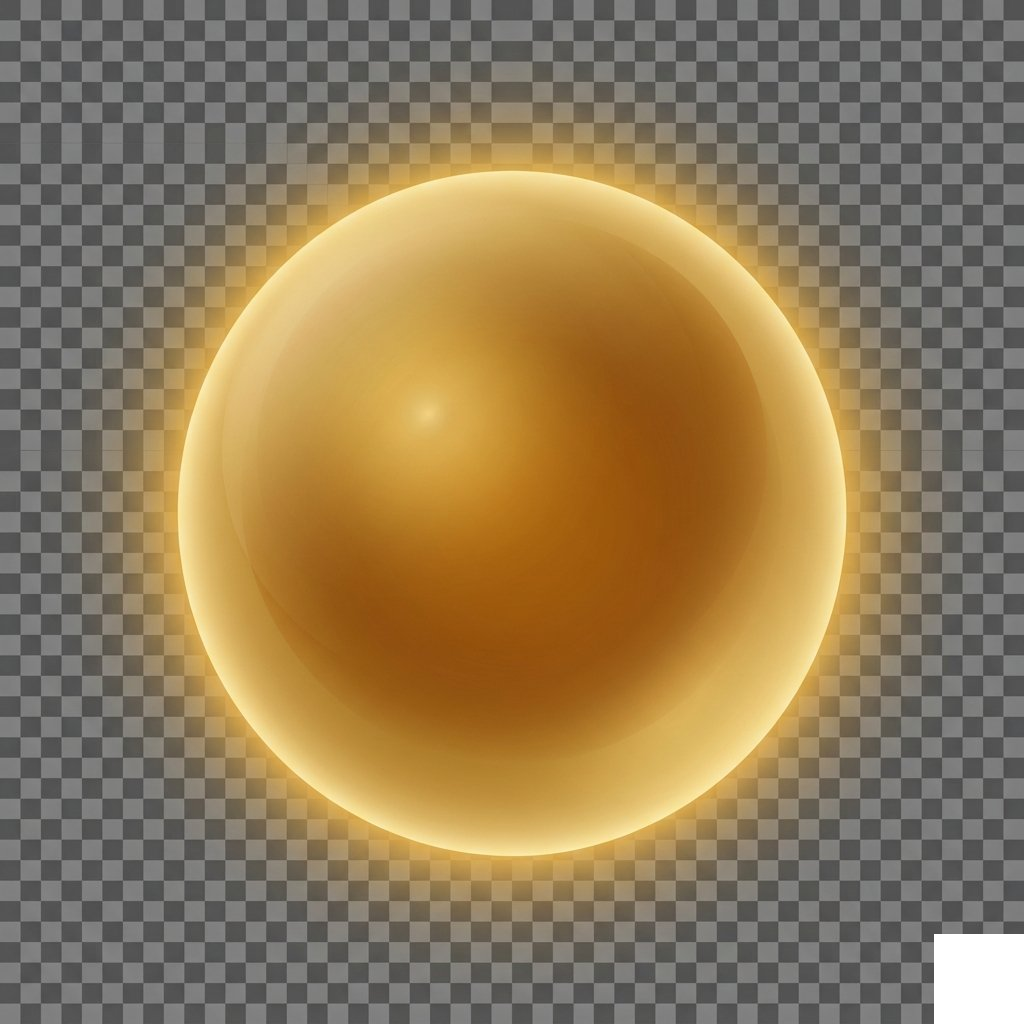
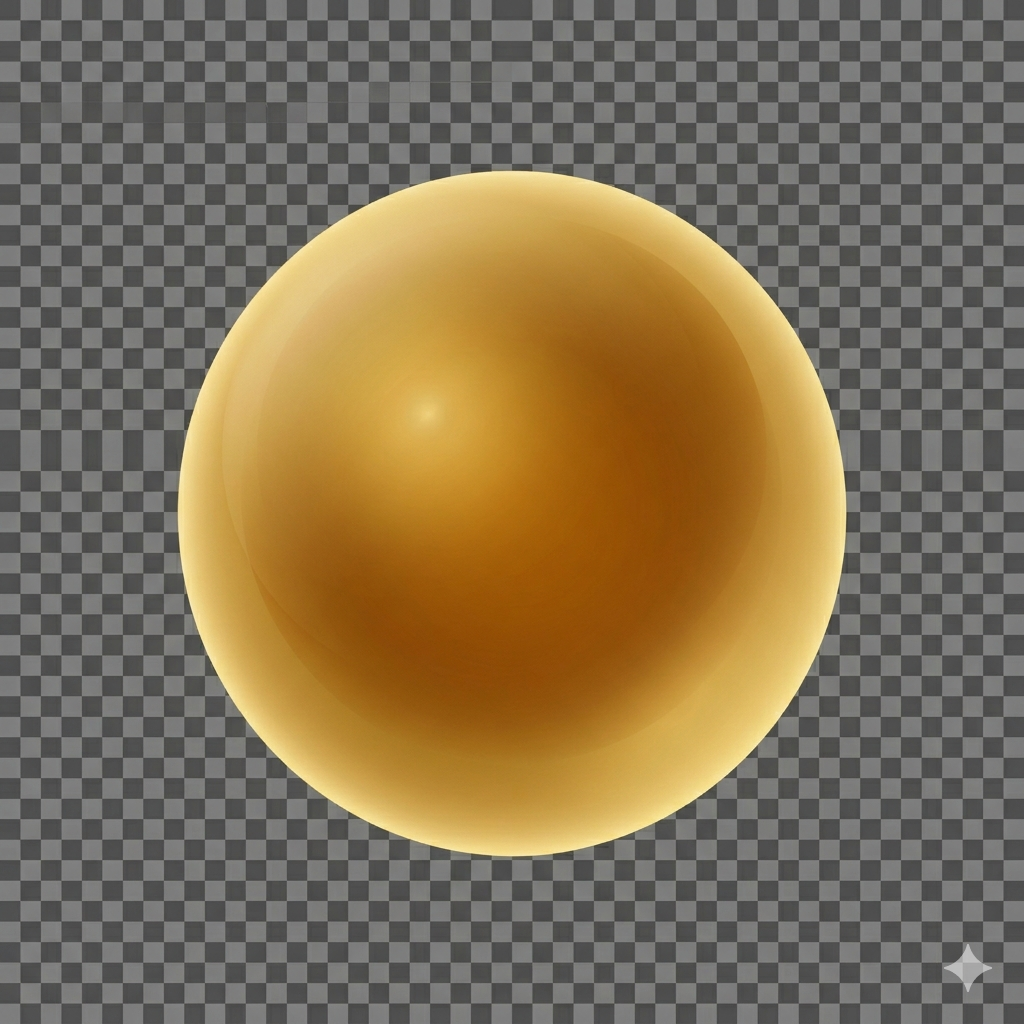
chore: bump SW v503 + nouvelle image orb_tafakkur.png

Changed region(s): [[0.0, 0.0625, 0.9062, 0.9375], [0.9062, 0.9062, 1.0, 1.0]]

diff --git a/sw.js b/sw.js
@@ -1,4 +1,4 @@
-const VERSION = 'niyyah-v502';
+const VERSION = 'niyyah-v503';
 const CORE = [
   './index.html',
   './script.min.js',